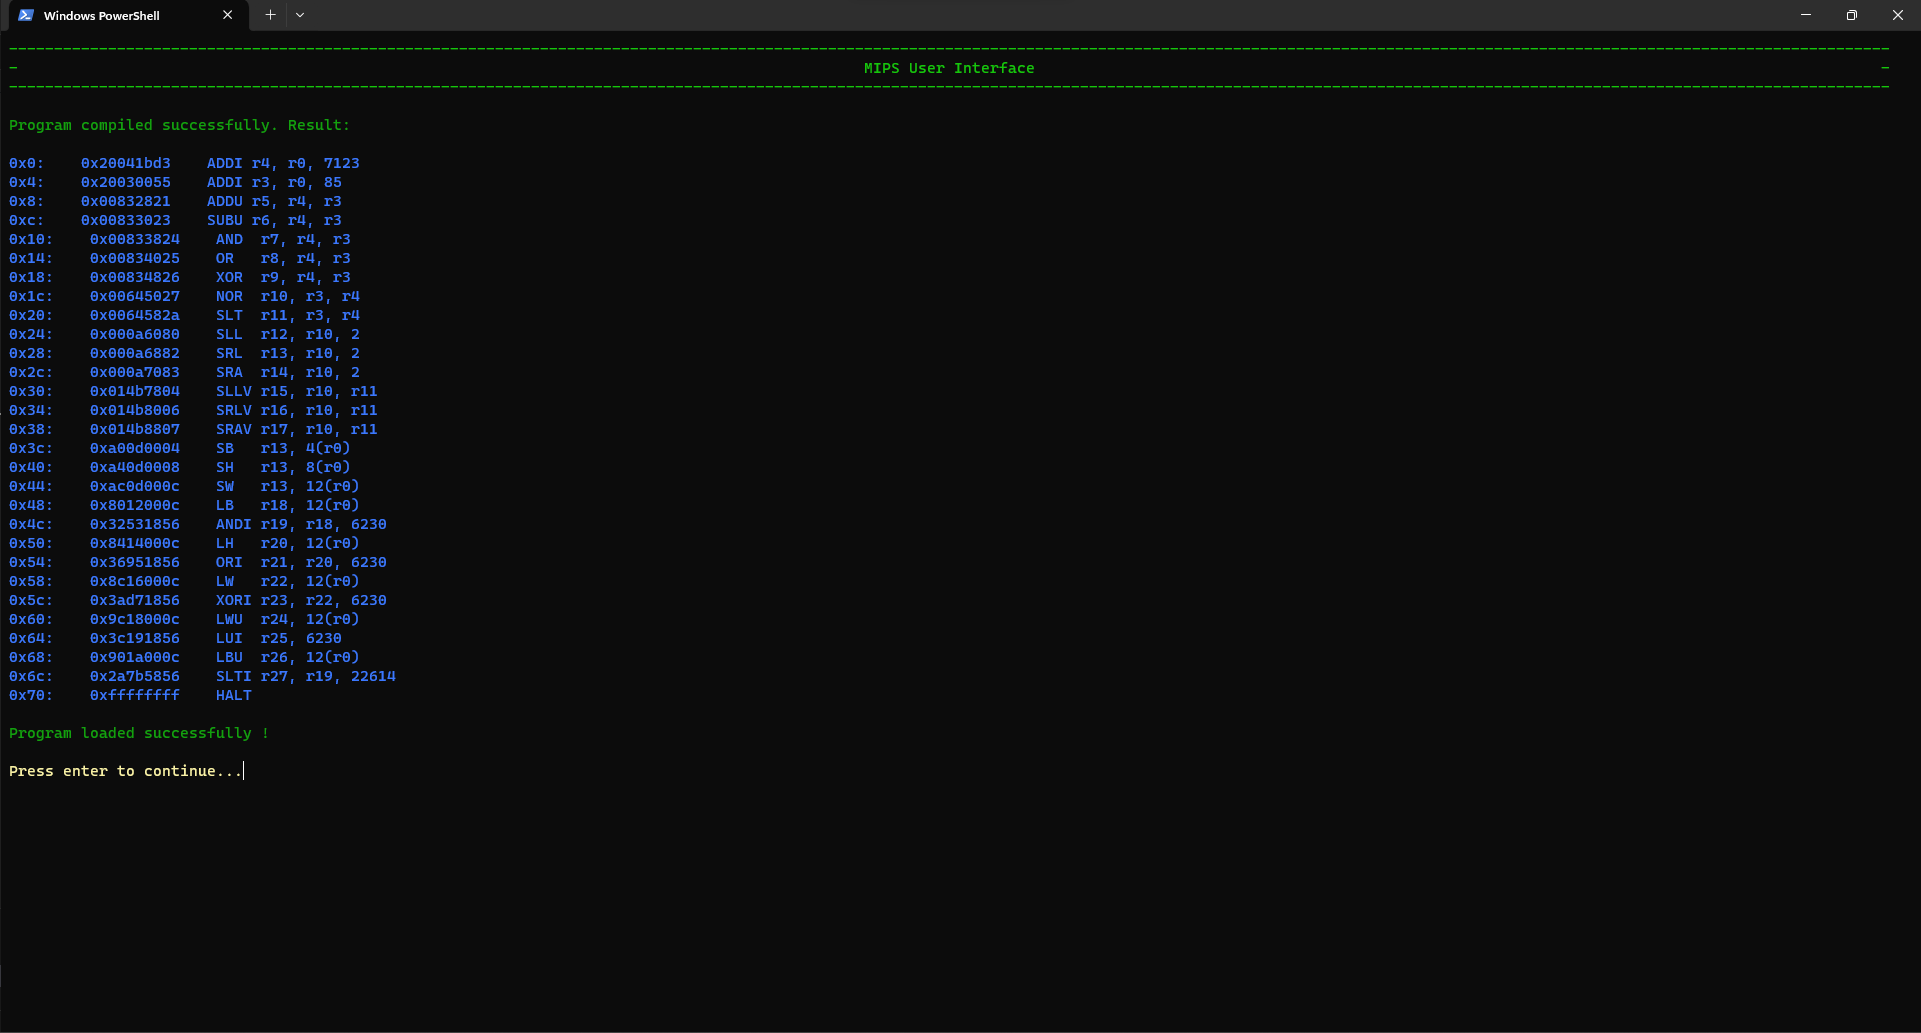
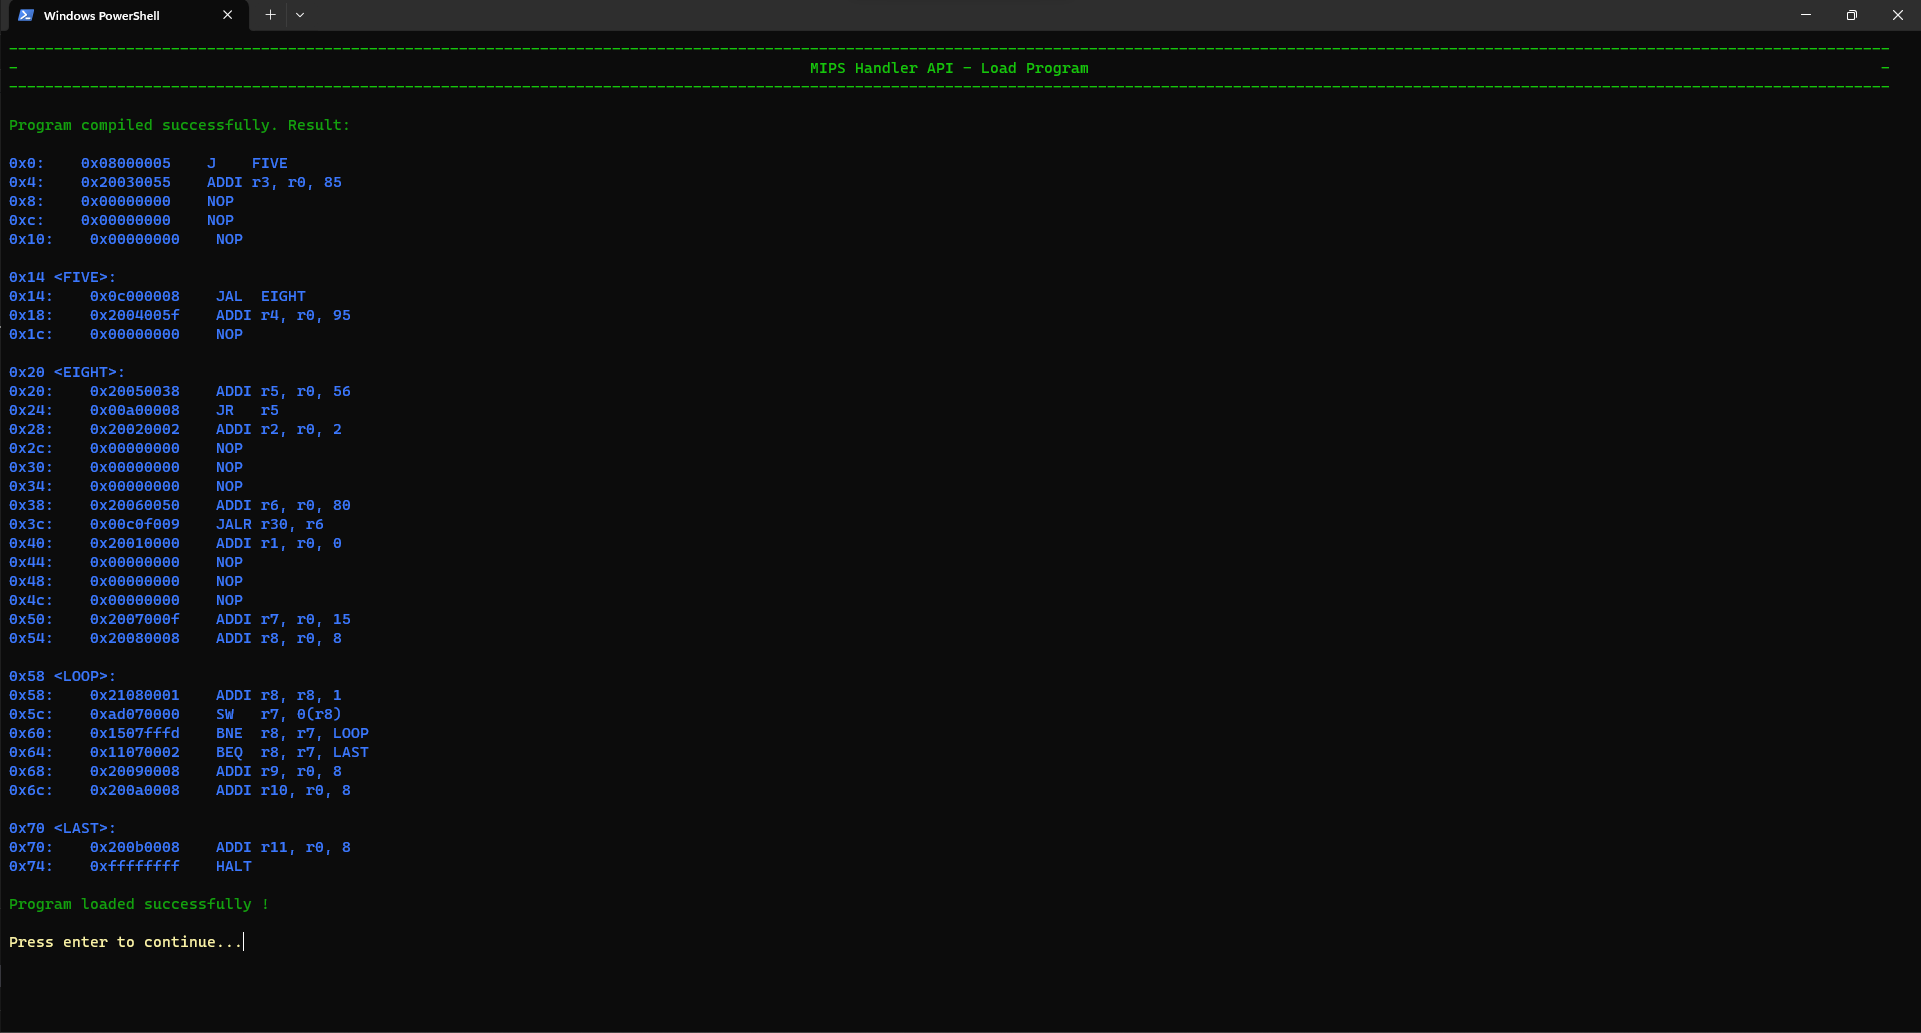
Debug.
Se completa el debug del sistema.

diff --git a/python.src/api.py b/python.src/api.py
@@ -27,10 +27,10 @@ def clear_screen():
     else:
         os.system("clear")
         
-def print_centered_title():
+def print_centered_title(menu):
     console_width = os.get_terminal_size().columns
 
-    title = "MIPS User Interface"
+    title = "MIPS Handler API" + " - " + menu
     spaces_before = (console_width - len(title) - 2) // 2
     spaces_after = console_width - len(title) - spaces_before - 2
 
@@ -42,18 +42,18 @@ def print_centered_title():
     print(Fore.LIGHTGREEN_EX + Back.BLACK + border_line)
     print(Style.RESET_ALL)
 
-def print_menu(options):
-    print_centered_title()
+def print_menu(options, menu_name):
+    print_centered_title(menu_name)
 
     for i, option in enumerate(options):
         print(f"  {option}")
 
-def get_user_selection(options):
+def get_user_selection(options, menu_name):
     current_row = 0
 
     while True:
         clear_screen()
-        print_menu(options)
+        print_menu(options, menu_name)
         key = input("\nEnter your choice (Press Enter to confirm): ")
 
         if key.isdigit():
@@ -68,13 +68,24 @@ def get_user_selection(options):
 def get_baud_rate():
     baud_rates = [9600, 19200, 38400, 57600, 115200]
     options = [f"{i + 1}. {rate} bps" for i, rate in enumerate(baud_rates)]
-    selected_index = get_user_selection(options)
+    selected_index = get_user_selection(options, "Baud Rate Selection")
     return baud_rates[selected_index]
 
 def select_serial_port():
     ports = get_serial_ports()
+
+    if not ports:
+        clear_screen()
+        print_centered_title("Serial Port Selection")
+        display_error("No serial ports found ! Program will exit...")
+        input(Fore.LIGHTYELLOW_EX + "\nPress enter to continue..." + Style.RESET_ALL)
+        clear_screen()
+        sys.exit(0)
+    
     options = [f"{i + 1}. {port}" for i, port in enumerate(ports)]
-    selected_index = get_user_selection(options)
+    
+    selected_index = get_user_selection(options, "Serial Port Selection")
+    
     return ports[selected_index]
 
 def get_serial_ports():
@@ -93,7 +104,7 @@ def main_menu():
 
     while True:
         options = [f"{i + 1}. {option}" for i, option in enumerate(menu_options)]
-        selected_index = get_user_selection(options)
+        selected_index = get_user_selection(options, "Main Menu")
 
         if selected_index == 0:
             load_program()
@@ -116,7 +127,7 @@ def load_program():
     clear_screen()
     
     try:
-        print_centered_title()
+        print_centered_title("Load Program")
 
         program_path = input("Input the program path: ")
 
@@ -129,7 +140,7 @@ def load_program():
             else:
                 clear_screen()
                 
-                print_centered_title()
+                print_centered_title("Load Program")
                 
                 print(Fore.GREEN + "Program compiled successfully. Result:\n" + Style.RESET_ALL)
                 
@@ -154,7 +165,7 @@ def run_normal_mode_program():
     clear_screen()
 
     try:
-        print_centered_title()
+        print_centered_title("Execute Program")
 
         mips_handler.execute_program(ExecutionsModes.RELEASE)
 
@@ -175,13 +186,13 @@ def run_step_mode_program():
     clear_screen()
 
     try:
-        print_centered_title()
+        print_centered_title("Execute Program by Steps")
 
         program_end = mips_handler.execute_program(ExecutionsModes.BY_STEPS)
 
         while not program_end:
             clear_screen()
-            print_centered_title()
+            print_centered_title("Execute Program by Steps")
             
             registers = mips_handler.get_registers_by_last_cicle()
             memory = mips_handler.get_memory_by_last_cicle()
@@ -202,7 +213,7 @@ def run_step_mode_program():
                 break
 
         clear_screen()
-        print_centered_title()
+        print_centered_title("Execute Program by Steps")
         
         if program_end:
             registers = mips_handler.get_registers_by_last_cicle()
@@ -225,7 +236,7 @@ def run_debug_mode_program():
     clear_screen()
 
     try:
-        print_centered_title()
+        print_centered_title("Execute Program in Debug Mode")
 
         print(Fore.LIGHTYELLOW_EX + "Execution program in debug mode..." + Style.RESET_ALL)
 
@@ -248,7 +259,7 @@ def delete_program():
     clear_screen()
 
     try:
-        print_centered_title()
+        print_centered_title("Delete Program")
 
         mips_handler.delete_program()
         
@@ -285,6 +296,14 @@ def print_tables(registers, memory, show_cicle = True):
                 memory_print.append(f"    [Cicle {mem['cicle']:04d}] M(0x{mem['addr']:02X}) -> | 0x{mem['content']:08X} |")
             else:
                 memory_print.append(f"    M(0x{mem['addr']:02X}) -> | 0x{mem['content']:08X} |")
+                
+        if len(register_print) > len(memory_print):
+            for i in range(len(register_print) - len(memory_print)):
+                memory_print.append(" " * half_width)
+            
+        elif len(memory_print) > len(register_print):
+            for i in range(len(memory_print) - len(register_print)):
+                register_print.append(" " * half_width)
             
         for i in range(max(len(register_print), len(memory_print))):
             if i < len(register_print):

diff --git a/python.src/mips_handler.py b/python.src/mips_handler.py
@@ -204,46 +204,40 @@ class MipsHandler():
 
         last_cicle = self.registers[-1]['cicle']
 
-        for cicle in range(1, last_cicle):
+        for cicle in range(2, last_cicle):
             prev_cicle_registers = self.get_registers_by_cicle(cicle - 1)
             cicle_registers = self.get_registers_by_cicle(cicle)
 
             for register in cicle_registers:
                 addr = register['addr']
-                
-                if addr not in prev_cicle_registers:
-                    continue
-
+               
                 prev_content = prev_cicle_registers[addr]['content']
 
                 if register['content'] != prev_content:
-                    summary.append(register)
+                    summary.append({'cicle': register['cicle'], 'addr': register['addr'], 'content': register['content'],  'prev_content': prev_content})
 
         return summary
 
     def get_memory_summary(self):
         summary = []
-        
+
         if not self.memory or len(self.memory) < 2:
             return summary
-        
+
         last_cicle = self.memory[-1]['cicle']
-        
-        for cicle in range(1, last_cicle):
+
+        for cicle in range(2, last_cicle):
             prev_cicle_memory = self.get_memory_by_cicle(cicle - 1)
             cicle_memory = self.get_memory_by_cicle(cicle)
-            
+
             for memory in cicle_memory:
                 addr = memory['addr']
-                
-                if addr not in prev_cicle_memory:
-                    continue
-                
+               
                 prev_content = prev_cicle_memory[addr]['content']
-                
+
                 if memory['content'] != prev_content:
-                    summary.append(memory)
-                    
+                    summary.append({'cicle': memory['cicle'], 'addr': memory['addr'], 'content': memory['content'],  'prev_content': prev_content})
+
         return summary
         
     def Close(self):

diff --git a/python.src/asm_parser.py b/python.src/asm_parser.py
@@ -117,8 +117,8 @@ class asmParser():
 
                     arg_count += 1
 
-                #if (instruction == 'BEQ' or instruction == 'BNE'):
-                #    args[2] = (int(args[2]) - self.currentLocation - 4)/4
+                if (instruction == 'BEQ' or instruction == 'BNE'):
+                    args[2] = (int(args[2]) - self.currentLocation - 4)/4
 
                 if (instruction == 'J' or instruction == 'JAL'):
                     args[0] = int(int(args[0])/4)
@@ -223,25 +223,23 @@ class asmParser():
             return 4
         else:
             return "NOT VALID INSTRUCTION: " + instruction
-            
-
 
     def hex2bin(self, hex_val, num_bits):
-            tc = False
-            if '-' in hex_val:
-                tc = True
-                hex_val = hex_val.replace('-', '')
+        is_negative = False
 
-            bit_string = '0' * num_bits
-            bin_val    = str(bin(int(hex_val, 16)))[2:]
-            bit_string = bit_string[0: num_bits - len(bin_val)] + bin_val + bit_string[num_bits:]
+        if '-' in hex_val:
+            is_negative = True
+            hex_val = hex_val.replace('-', '')
 
-            if tc:
-                bit_string = '1' + bit_string[1:]
+        bin_val = format(int(hex_val, 16), f'0{num_bits}b')
 
-            return bit_string
+        if is_negative:
+            bin_val = bin_val[-num_bits:]
+            bin_val = bin_val.replace('0', '2').replace('1', '0').replace('2', '1')
+            bin_val = format(int(bin_val, 2) + 1, f'0{num_bits}b')
+
+        return str(bin_val)
     
-
     def bin2hex(self, bit_string):
         bit_string = '0b'+bit_string
         hex_string = str(hex(int(bit_string, 2)))[2:]
